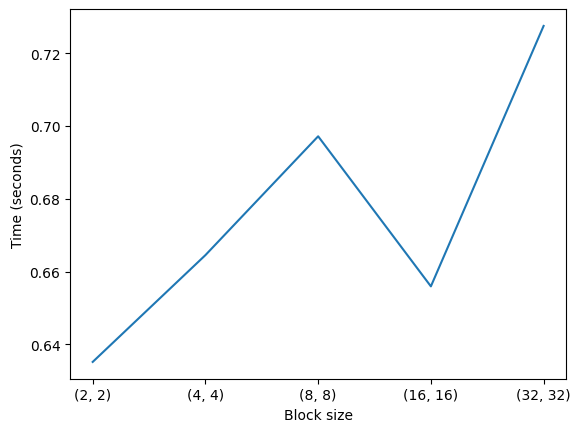
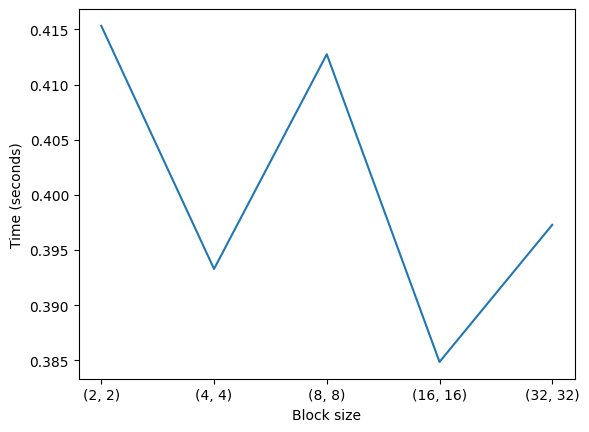
update labwork 5

diff --git a/labworks/05/labwork05.py b/labworks/05/labwork05.py
@@ -1,3 +1,4 @@
+import math
 from numba import cuda, float32
 import time
 import numpy as np
@@ -26,19 +27,22 @@ blur_kernel = blur_kernel / blur_kernel.sum()
 @cuda.jit
 def blur_kernel_2d(src, dst, kernel):
     x, y = cuda.grid(2)
-    if x < src.shape[1] and y < src.shape[0]:
+    if x < src.shape[0] and y < src.shape[1]:
         for c in range(3):
-            conv_sum = 0.0
+            conv_sum = 0
             for i in range(-3, 4):
                 for j in range(-3, 4):
                     if (
                         x + i >= 0
-                        and x + i < src.shape[1]
+                        and x + i < src.shape[0]
                         and y + j >= 0
-                        and y + j < src.shape[0]
+                        and y + j < src.shape[1]
                     ):
-                        conv_sum += src[y + j, x + i, c] * kernel[i + 3, j + 3]
-            dst[y, x, c] = conv_sum
+                        conv_sum += (
+                            src[x + i, y + j, c] * kernel[i + 3, j + 3]
+                        )
+            dst[x, y, c] = conv_sum
+
 
 
 def gaussian_blur_gpu_2d(
@@ -51,8 +55,8 @@ def gaussian_blur_gpu_2d(
 ):
     h, w, c = img.shape
     pixel_count = h * w
-    grid_size_x = (w + block_size[0] - 1) // block_size[0]
-    grid_size_y = (h + block_size[1] - 1) // block_size[1]
+    grid_size_x = math.ceil(h / block_size[0])
+    grid_size_y = math.ceil(w / block_size[1])
     grid_size = (grid_size_x, grid_size_y)
     rgb = np.ascontiguousarray(img[..., :3])
 
